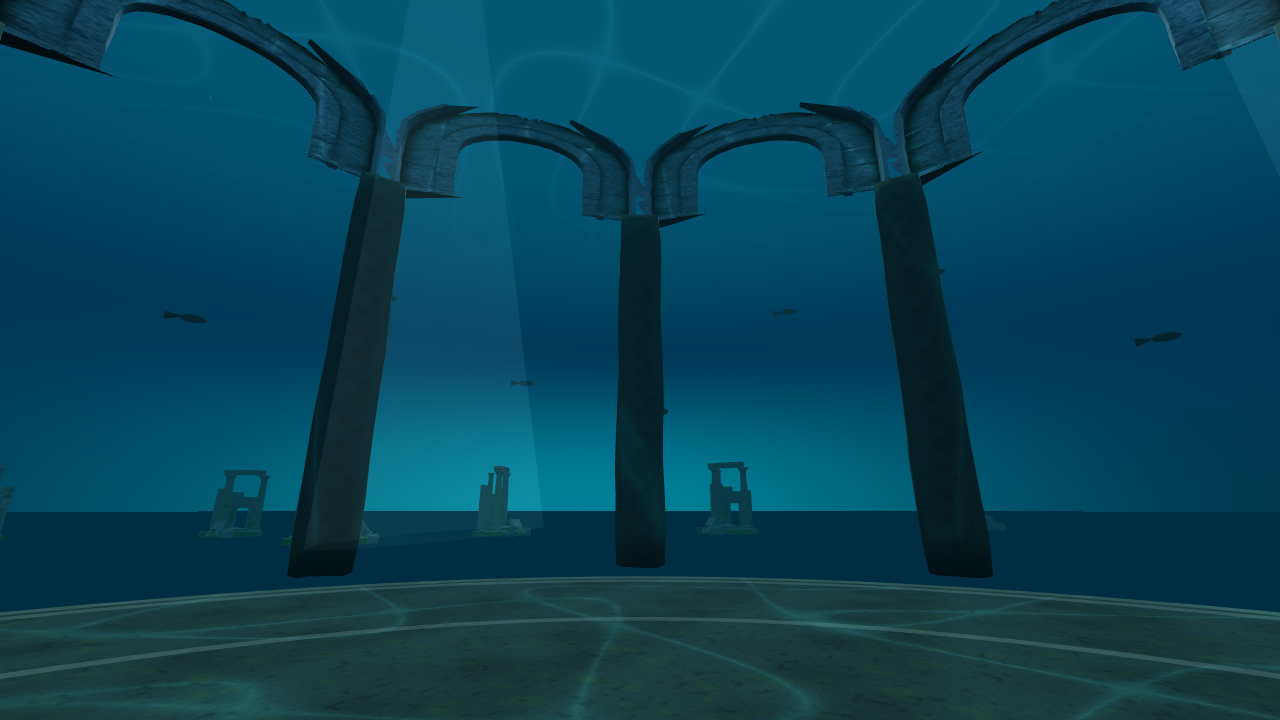
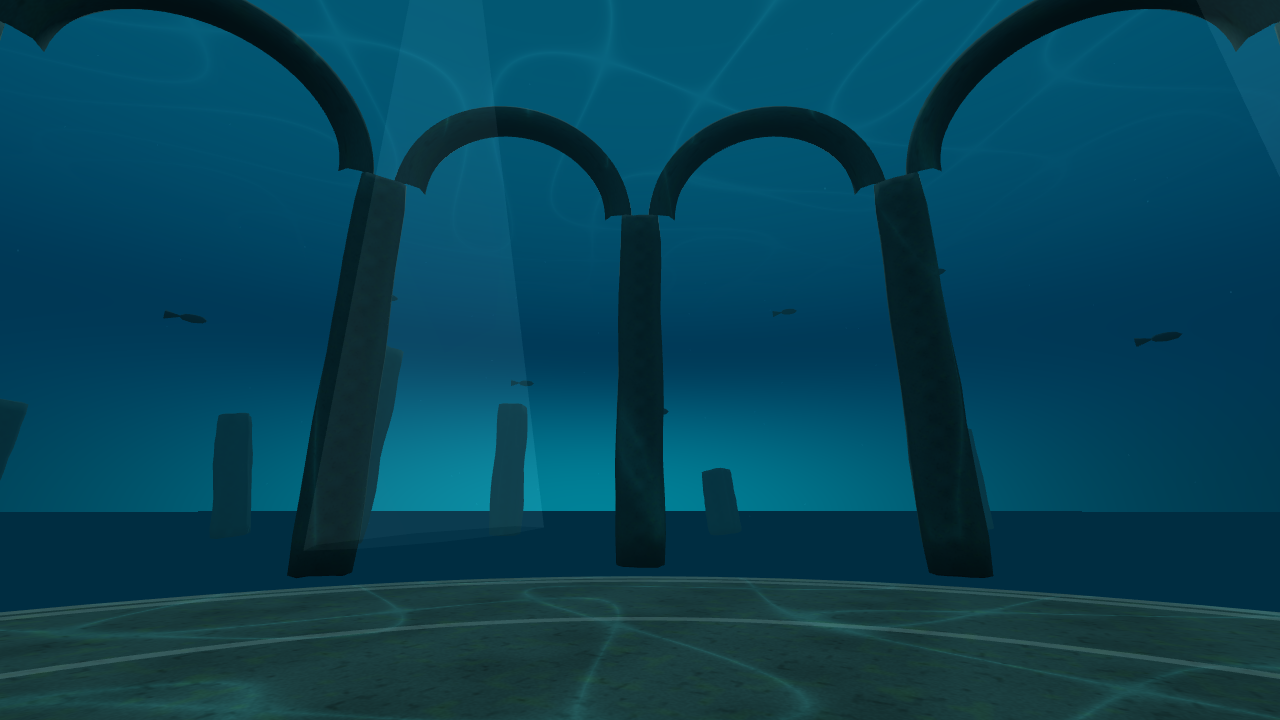
Restore preferred procedural temple arches and ruins

diff --git a/worlds/drowned-temple.js b/worlds/drowned-temple.js
@@ -1,6 +1,5 @@
 import {stoneMaps,weatheredStone} from './stone-surface.js';
 import {templeWater,templeProjection} from './temple-water.js';
-import {templeModels} from './temple-models.js';
 VR.registerWorld({id:'drowned-temple',name:'The Drowned Temple',blurb:'An air-filled sanctuary beneath the ocean, with weathered arches, drifting fish and sunlight rippling across the stone.',
  build(ctx){
   const g=ctx.group,K=VR.kit,dir=VR.dir,hash=VR.hash;
@@ -16,15 +15,14 @@ VR.registerWorld({id:'drowned-temple',name:'The Drowned Temple',blurb:'An air-fi
   const terrace=new THREE.Mesh(new THREE.CylinderGeometry(14.3,15.3,.7,48),floorMat);terrace.position.y=-.4;g.add(terrace);
   const edgeMat=new THREE.MeshBasicMaterial({color:0x76b8ba,transparent:true,opacity:.22});
   for(const r of [8.5,12.8,13.4]){const ring=new THREE.Mesh(new THREE.TorusGeometry(r,.025,5,96),edgeMat);ring.rotation.x=Math.PI/2;ring.position.y=.025;g.add(ring);}
-  const arches=[],pillars=[],ruins=[];
+  const arches=[],pillars=[];
   for(let i=0;i<12;i++){
    const b=i*30,p=dir(b).multiplyScalar(16.5),geo=weatheredStone(1.5,11.5,1.7,i+1,.18,ctx.simplified);
    const column=new THREE.Mesh(geo,stone);column.position.copy(p);column.rotation.y=VR.yawFor(b);column.name='Temple perimeter pillar';g.add(column);pillars.push(column);
    const archGeo=new THREE.TorusGeometry(3.5,.5,ctx.simplified?5:8,ctx.simplified?16:32,Math.PI),colors=[];for(let v=0;v<archGeo.attributes.position.count;v++)colors.push(.9,.94,.92);archGeo.setAttribute('color',new THREE.Float32BufferAttribute(colors,3));
    const arch=new THREE.Mesh(archGeo,stone);arch.position.copy(dir(b+15).multiplyScalar(16)).setY(11.5);arch.rotation.y=VR.yawFor(b+15);arch.name='Weathered temple arch';g.add(arch);arches.push(arch);
   }
-  for(let i=0;i<(ctx.simplified?8:18);i++){const b=i*23,p=dir(b).multiplyScalar(30+hash(i+12)*25),ruin=new THREE.Mesh(weatheredStone(1.8,4+hash(i+30)*7,1.8,i+80,.24,ctx.simplified),stone);ruin.position.copy(p);ruin.rotation.y=b;ruin.rotation.z=(hash(i+44)-.5)*.35;g.add(ruin);ruins.push(ruin);}
-  const models=templeModels(ctx,arches,ruins,projection);
+  for(let i=0;i<(ctx.simplified?8:18);i++){const b=i*23,p=dir(b).multiplyScalar(30+hash(i+12)*25),ruin=new THREE.Mesh(weatheredStone(1.8,4+hash(i+30)*7,1.8,i+80,.24,ctx.simplified),stone);ruin.position.copy(p);ruin.rotation.y=b;ruin.rotation.z=(hash(i+44)-.5)*.35;g.add(ruin);}
   const water=templeWater(ctx.simplified);g.add(water.water);
   const shafts=new THREE.Group();shafts.name='Submerged sun shafts';g.add(shafts);
   const shaftMat=new THREE.MeshBasicMaterial({color:0x8fe8eb,transparent:true,opacity:ctx.simplified?.025:.035,depthWrite:false,side:THREE.DoubleSide,blending:THREE.AdditiveBlending});
@@ -34,7 +32,7 @@ VR.registerWorld({id:'drowned-temple',name:'The Drowned Temple',blurb:'An air-fi
   bodies.frustumCulled=tails.frustumCulled=false;
   const matrix=new THREE.Matrix4(),tailMatrix=new THREE.Matrix4(),position=new THREE.Vector3(),rotation=new THREE.Quaternion(),scale=new THREE.Vector3(1.5,.6,.45),tailTurn=new THREE.Matrix4().makeRotationZ(-Math.PI/2);
   const particles=K.motes(g,{count:ctx.simplified?80:260,radius:38,height:20,palette:[0x74aab5,0xb5d7d5,0x81b9c5],size:.035,speed:.12});
-  return {water,pillars,projection,models,update(dt,T){const quiet=VR.calm()||VR.reducedMotion||ctx.simplified,t=quiet?0:T;water.update(T);projection.update(T);
+  return {water,pillars,projection,update(dt,T){const quiet=VR.calm()||VR.reducedMotion||ctx.simplified,t=quiet?0:T;water.update(T);projection.update(T);
    for(let i=0;i<count;i++){const angle=i/count*Math.PI*2+t*.012,radius=28+hash(i+150)*8;position.set(Math.cos(angle)*radius,6+hash(i+240)*9+(quiet?0:Math.sin(t*.15+i)*.35),Math.sin(angle)*radius);rotation.setFromAxisAngle(VR.UP,-angle-Math.PI/2);matrix.compose(position,rotation,scale);bodies.setMatrixAt(i,matrix);tailMatrix.compose(position,rotation,new THREE.Vector3(1,1,1)).multiply(new THREE.Matrix4().makeTranslation(-.7,0,0)).multiply(tailTurn);tails.setMatrixAt(i,tailMatrix);}bodies.instanceMatrix.needsUpdate=tails.instanceMatrix.needsUpdate=true;
    if(!quiet)particles.update(dt,T);
   }};

diff --git a/tests/browser/drowned-temple.spec.js b/tests/browser/drowned-temple.spec.js
@@ -4,23 +4,19 @@ test('Drowned Temple loads, keeps the ritual floor clear, provides quiet modes a
  const errors=[];page.on('pageerror',e=>errors.push(e.message));page.on('console',m=>{if(m.type()==='error')errors.push(m.text());});
  await page.goto('./');await page.waitForFunction(()=>!!window.VR?.ready);await page.evaluate(()=>VR.ready);
  await expect(page.locator('#worldList button')).toHaveCount(6);
- const result=await page.evaluate(async()=>{
-  VR.renderer.setAnimationLoop(null);VR.settings.sound=false;VR.loadWorld('drowned-temple');await VR.world.inst.models.userData.ready;VR.world.inst.update(.016,25);
+ const result=await page.evaluate(()=>{
+  VR.renderer.setAnimationLoop(null);VR.settings.sound=false;VR.loadWorld('drowned-temple');VR.world.inst.update(.016,25);
   document.querySelectorAll('.screen').forEach(s=>s.classList.add('off'));VR.camera.position.set(0,1.6,0);const target=VR.dir(60).multiplyScalar(22).setY(8);VR.camera.lookAt(target);VR.renderer.render(VR.scene,VR.camera);
   const inst=VR.world.inst,clearance=Math.min(...inst.pillars.map(p=>Math.hypot(p.position.x,p.position.z)-1.2));
-  return {models:inst.models.userData.status,arch:inst.models.userData.arch,ruins:inst.models.userData.ruins,clearance,canopy:VR.worldGroup.getObjectByName('Ocean canopy').position.y,fish:VR.worldGroup.getObjectByName('Distant fish school').count,resources:VR.resourceSnapshot()};
+  return {clearance,canopy:VR.worldGroup.getObjectByName('Ocean canopy').position.y,fish:VR.worldGroup.getObjectByName('Distant fish school').count,resources:VR.resourceSnapshot()};
  });expect(result.clearance).toBeGreaterThan(12);expect(result.canopy).toBe(24);expect(result.fish).toBe(24);
- expect(result.models).toBe('ready');expect(result.arch.count).toBe(12);expect(result.ruins.count).toBe(18);
- expect(result.arch.width).toBeCloseTo(8.6);expect(result.arch.depth).toBeLessThanOrEqual(1);
  await page.screenshot({path:info.outputPath('drowned-temple.png')});
- const checks=await page.evaluate(async()=>{
+ const checks=await page.evaluate(()=>{
   const inst=VR.world.inst;VR.settings.intensity='low';inst.update(1,50);const quiet=inst.water.water.material.uniforms.quiet.value===1&&inst.projection.uniforms.templeTime.value===0;
   VR.settings.intensity='full';VR.reducedMotion=true;inst.update(1,60);const reduced=inst.water.water.material.uniforms.quiet.value===1&&inst.projection.uniforms.templeTime.value===0;VR.reducedMotion=false;
-  const render=()=>VR.renderer.render(VR.scene,VR.camera);VR.loadWorld('room');render();const warm=VR.resourceSnapshot();for(let i=0;i<3;i++){VR.loadWorld('drowned-temple');await VR.world.inst.models.userData.ready;VR.world.inst.update(.016,0);render();VR.loadWorld('room');render();}const end=VR.resourceSnapshot();
-  VR.loadWorld('drowned-temple');const lateReady=VR.world.inst.models.userData.ready;VR.loadWorld('room');await lateReady;render();const late=VR.resourceSnapshot();
+  const render=()=>VR.renderer.render(VR.scene,VR.camera);VR.loadWorld('room');render();const warm=VR.resourceSnapshot();for(let i=0;i<3;i++){VR.loadWorld('drowned-temple');VR.world.inst.update(.016,0);render();VR.loadWorld('room');render();}const end=VR.resourceSnapshot();
   VR.settings.simplified=true;VR.loadWorld('drowned-temple');VR.world.inst.update(.016,80);render();const simpleFish=VR.worldGroup.getObjectByName('Distant fish school').count,simpleQuiet=VR.world.inst.water.water.material.uniforms.quiet.value===1;
-  return {quiet,reduced,warm,end,late,simpleModels:VR.world.inst.models===null,simpleFish,simpleQuiet};
+  return {quiet,reduced,warm,end,simpleFish,simpleQuiet};
  });expect(checks.quiet&&checks.reduced&&checks.simpleQuiet).toBe(true);expect(checks.simpleFish).toBe(8);expect(checks.end.geometries).toBe(checks.warm.geometries);expect(checks.end.textures).toBe(checks.warm.textures);expect(errors).toEqual([]);
- expect(checks.simpleModels).toBe(true);expect(checks.late.geometries).toBe(checks.warm.geometries);expect(checks.late.textures).toBe(checks.warm.textures);
  writeFileSync(info.outputPath('drowned-temple-resources.json'),JSON.stringify({result,checks},null,2));
 });

diff --git a/docs/verification-results.md b/docs/verification-results.md
@@ -120,6 +120,8 @@ Reference: https://threejs.org/examples/webgpu_lights_projector.html uses WebGPU
 
 ### Meshy arches and exterior ruins
 
+**Current status:** the user preferred the previous architecture, so the procedural arches and exterior ruins have been restored. Meshy assets are inactive and retained only as reference. Fog and projected ripple lighting remain. The restoration build and targeted temple browser test pass, including quiet modes and stable teardown counts; the main temple screenshot/resource receipt now show the restored scene. No additional credits were spent. The following measurements describe the rejected prototype.
+
 Two Meshy 6 geometry jobs and two 2K PBR texture jobs succeeded, consuming exactly the approved 60 credits (20+10 per asset). The arch generation included an unwanted wall: a local extraction preserves the aperture, removes the threshold and retains 836 triangles with original UVs. The repaired surround is decorative, not a sealed/manifold structural mesh. Twelve shared clones are fitted to the perimeter pillars with an 8.6m span, 3.8m height and 1m depth. The 9,301-triangle ruin cluster replaces eighteen exterior placeholders with varied rotation/scale. Future architectural generations should use approved reference drawings.
 
 The runtime GLBs total 10,106,236 bytes, with four 1024-square embedded maps per asset downsampled from the generated 2K originals. Shared materials receive projected ripple light. Simplified mode skips the imports; failed loads retain procedural architecture. Source files are preserved locally outside the repository. Prompts, task IDs, actual credits, hashes and static validation receipts are documented under `assets/models/drowned-temple/` and `docs/drowned-temple-asset-plan.md`.

diff --git a/docs/drowned-temple-asset-plan.md b/docs/drowned-temple-asset-plan.md
@@ -1,6 +1,6 @@
 # Drowned Temple Meshy asset plan
 
-Status: completed with the approved Meshy 6 budget; 60 credits consumed. Task IDs and stage costs are in `assets/models/drowned-temple/generation-receipt.json`.
+Status: generated and evaluated, then rejected visually by the user. Procedural arches and ruins are restored in the active scene. The generated files remain for reference; no new generation is authorized. The approved Meshy 6 jobs consumed 60 credits. Task IDs and stage costs are in `assets/models/drowned-temple/generation-receipt.json`.
 
 The text-generated arch included unwanted wall geometry. A local extraction retains the open surround (836 triangles), preserves UVs and removes the threshold obstruction. It is fitted to an 8.6m span, 3.8m height and 1m depth above perimeter pillars. The ruin cluster has 9,301 triangles; 18 clones share its geometry/textures and vary rotation/scale. The runtime tier downsamples the generated 2K maps to 1024, approximately halving GLB download sizes. Original provider files are preserved locally outside the deployable repository in `../meshy-temple-sources/`. Future architectural generations should use an approved reference drawing to avoid the wall interpretation. No extra charged takes or optimizations were run.
 

diff --git a/assets/models/drowned-temple/README.md b/assets/models/drowned-temple/README.md
@@ -1,5 +1,7 @@
 # Drowned Temple architecture
 
+These assets were rejected visually and are inactive. The world uses its previous procedural arches and ruins; the files and receipts are retained for reference only.
+
 Generated through the user's connected Meshy account using Meshy 6 text-to-3D and standard 2K PBR texturing. These are generated assets, not public-domain historical artwork; redistribution follows the account's applicable Meshy terms. Prompts/settings and production notes: `docs/drowned-temple-asset-plan.md`. Stage IDs and the actual 60-credit total: `generation-receipt.json`.
 
 Deploy only `arch.glb` and `ruins.glb`: embedded assets with four 1024-square maps each. The arch was locally extracted from the generated wall using `scripts/extract-temple-arch.py`; runtime textures are produced with `scripts/temple-texture-tier.py`. Per-file hashes and inspection results are in the two validation receipts.
